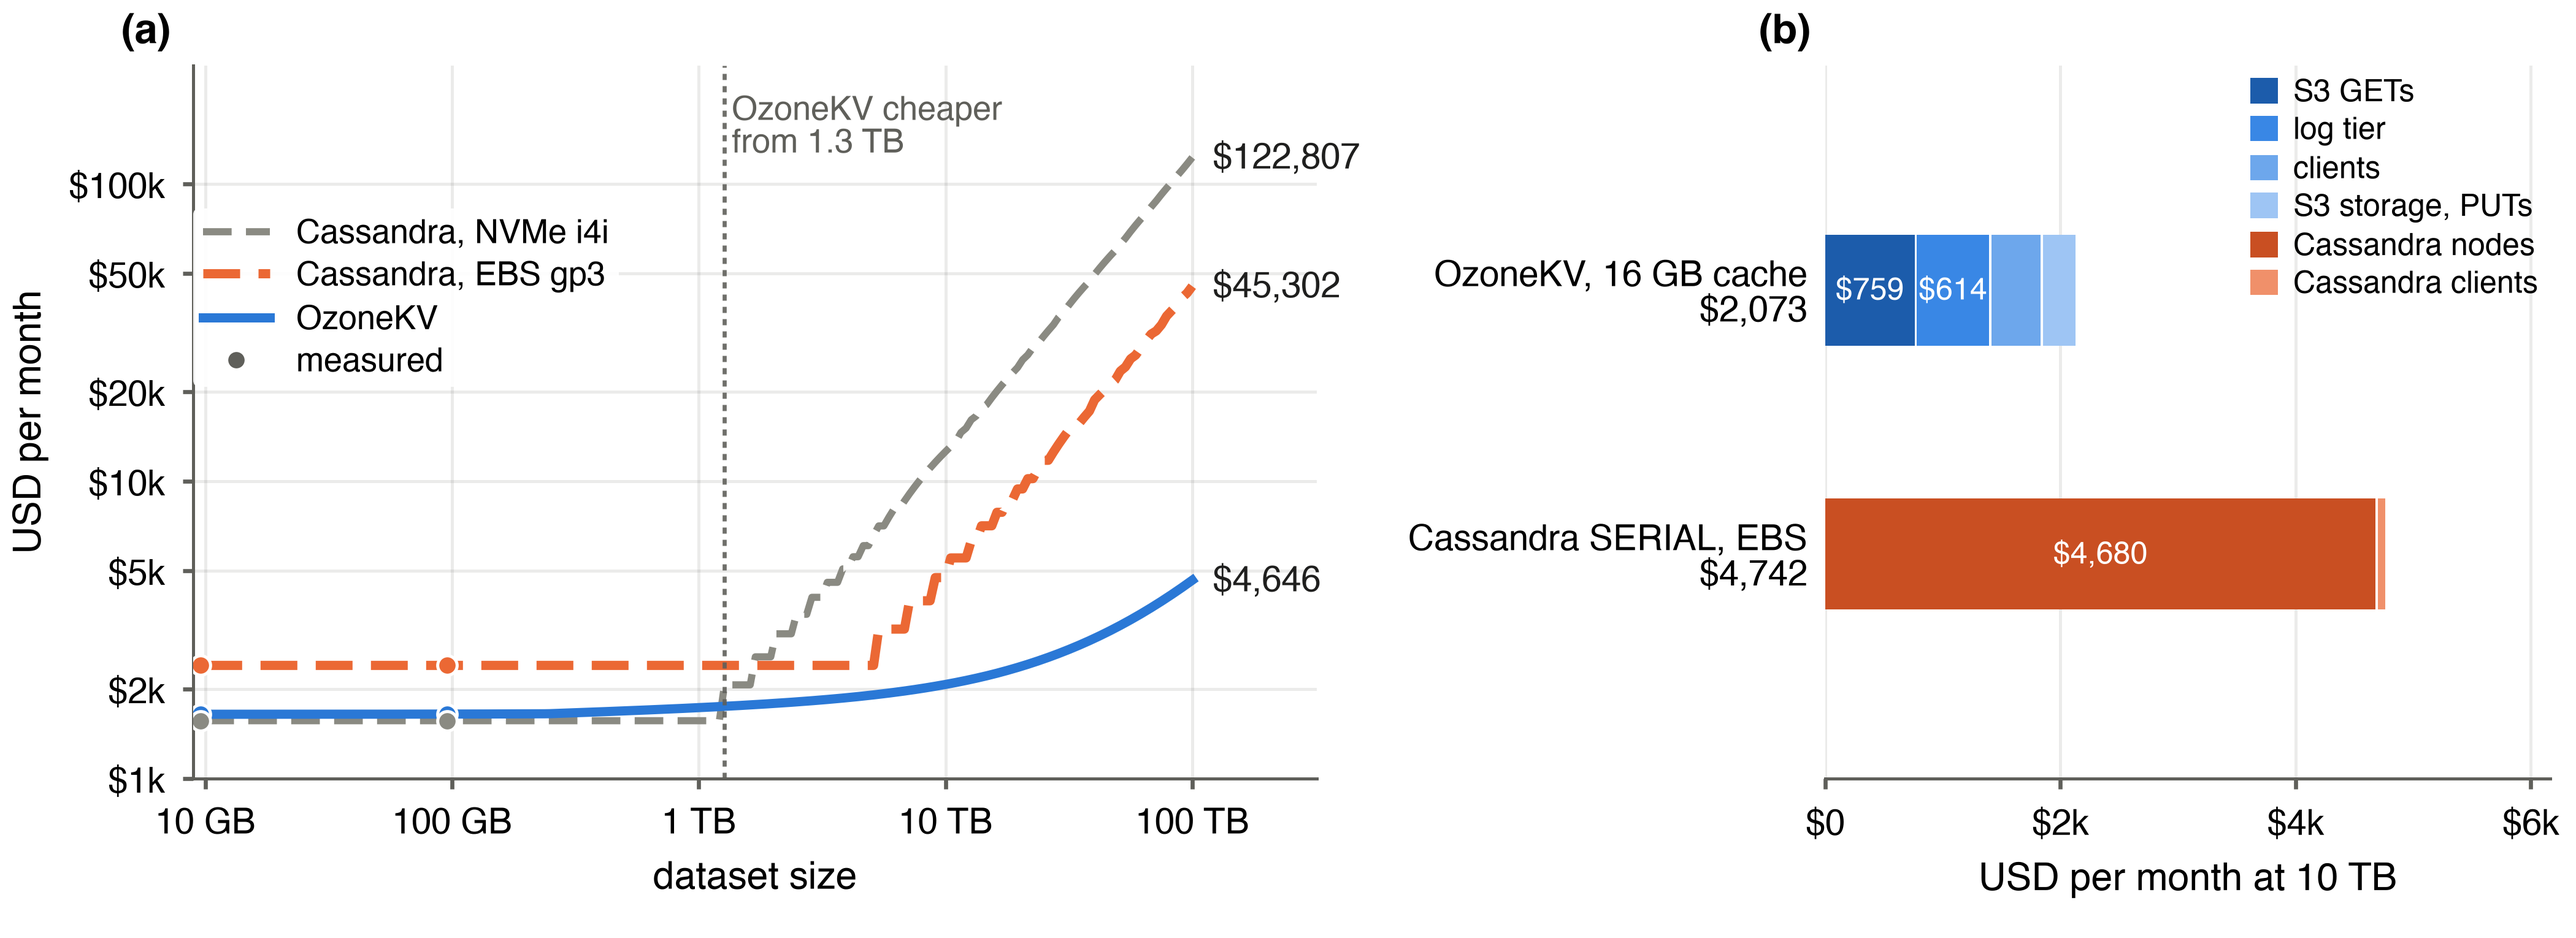
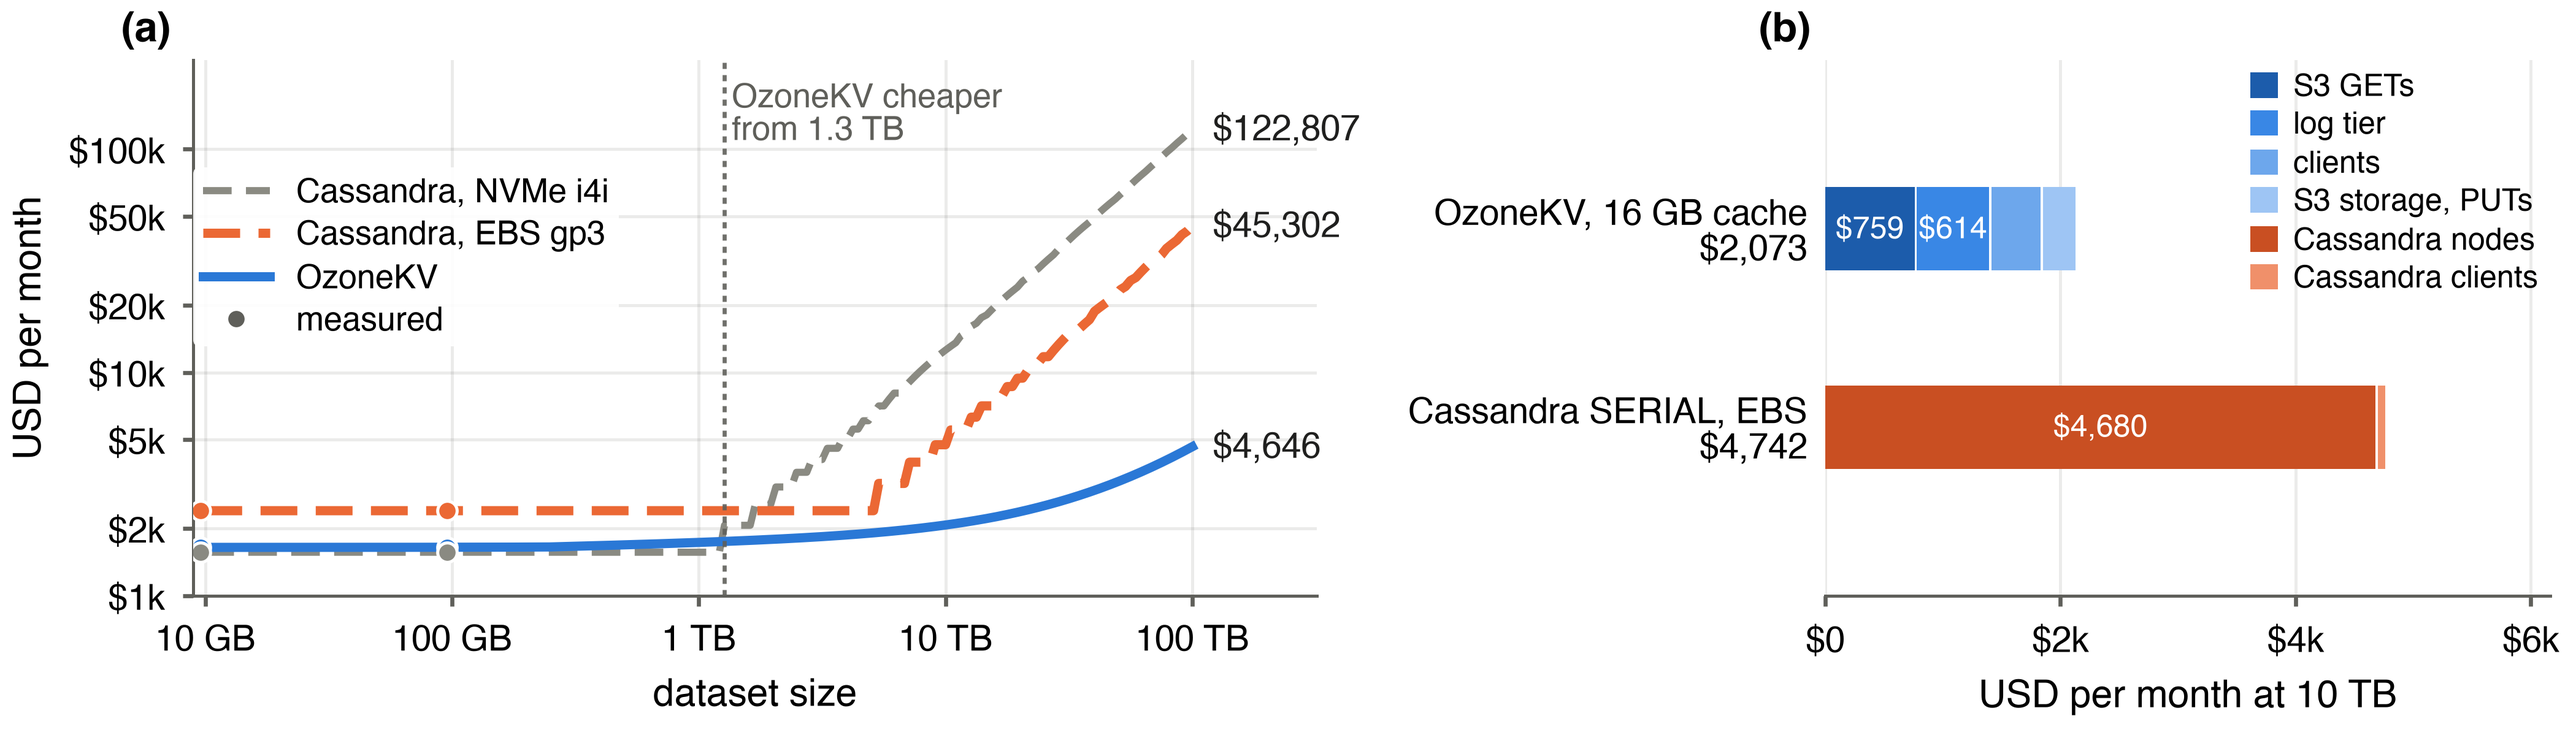
bench: paper cost figure shorter -- 2.05 in wide layout, 2.0 in column layout
Claude-Session: https://claude.ai/code/session_01NGxReJb9LDcmdrCuRqfn7h

diff --git a/bench/scripts/plot/paper_cost_figure.py b/bench/scripts/plot/paper_cost_figure.py
@@ -427,7 +427,7 @@ def main():
     fig, (ax_a, ax_b) = plt.subplots(
         1,
         2,
-        figsize=(7.0, 2.55),
+        figsize=(7.0, 2.05),
         gridspec_kw={"width_ratios": [1.55, 1], "wspace": 0.55},
     )
     panel_a(ax_a, coef, model, prices, s, single=False)
@@ -443,16 +443,16 @@ def main():
             va="bottom",
             ha="right",
         )
-    fig.subplots_adjust(left=0.075, right=0.99, top=0.93, bottom=0.17)
+    fig.subplots_adjust(left=0.075, right=0.99, top=0.92, bottom=0.21)
     for ext in ("pdf", "png"):
         fig.savefig(f"{args.out}.{ext}")
         print(f"wrote {args.out}.{ext}")
     plt.close(fig)
 
     # Single column: (a) alone.
-    fig, ax = plt.subplots(figsize=(3.35, 2.45))
+    fig, ax = plt.subplots(figsize=(3.35, 2.0))
     panel_a(ax, coef, model, prices, s, single=True)
-    fig.subplots_adjust(left=0.15, right=0.985, top=0.97, bottom=0.16)
+    fig.subplots_adjust(left=0.15, right=0.985, top=0.97, bottom=0.2)
     for ext in ("pdf", "png"):
         fig.savefig(f"{args.out}_col.{ext}")
         print(f"wrote {args.out}_col.{ext}")
